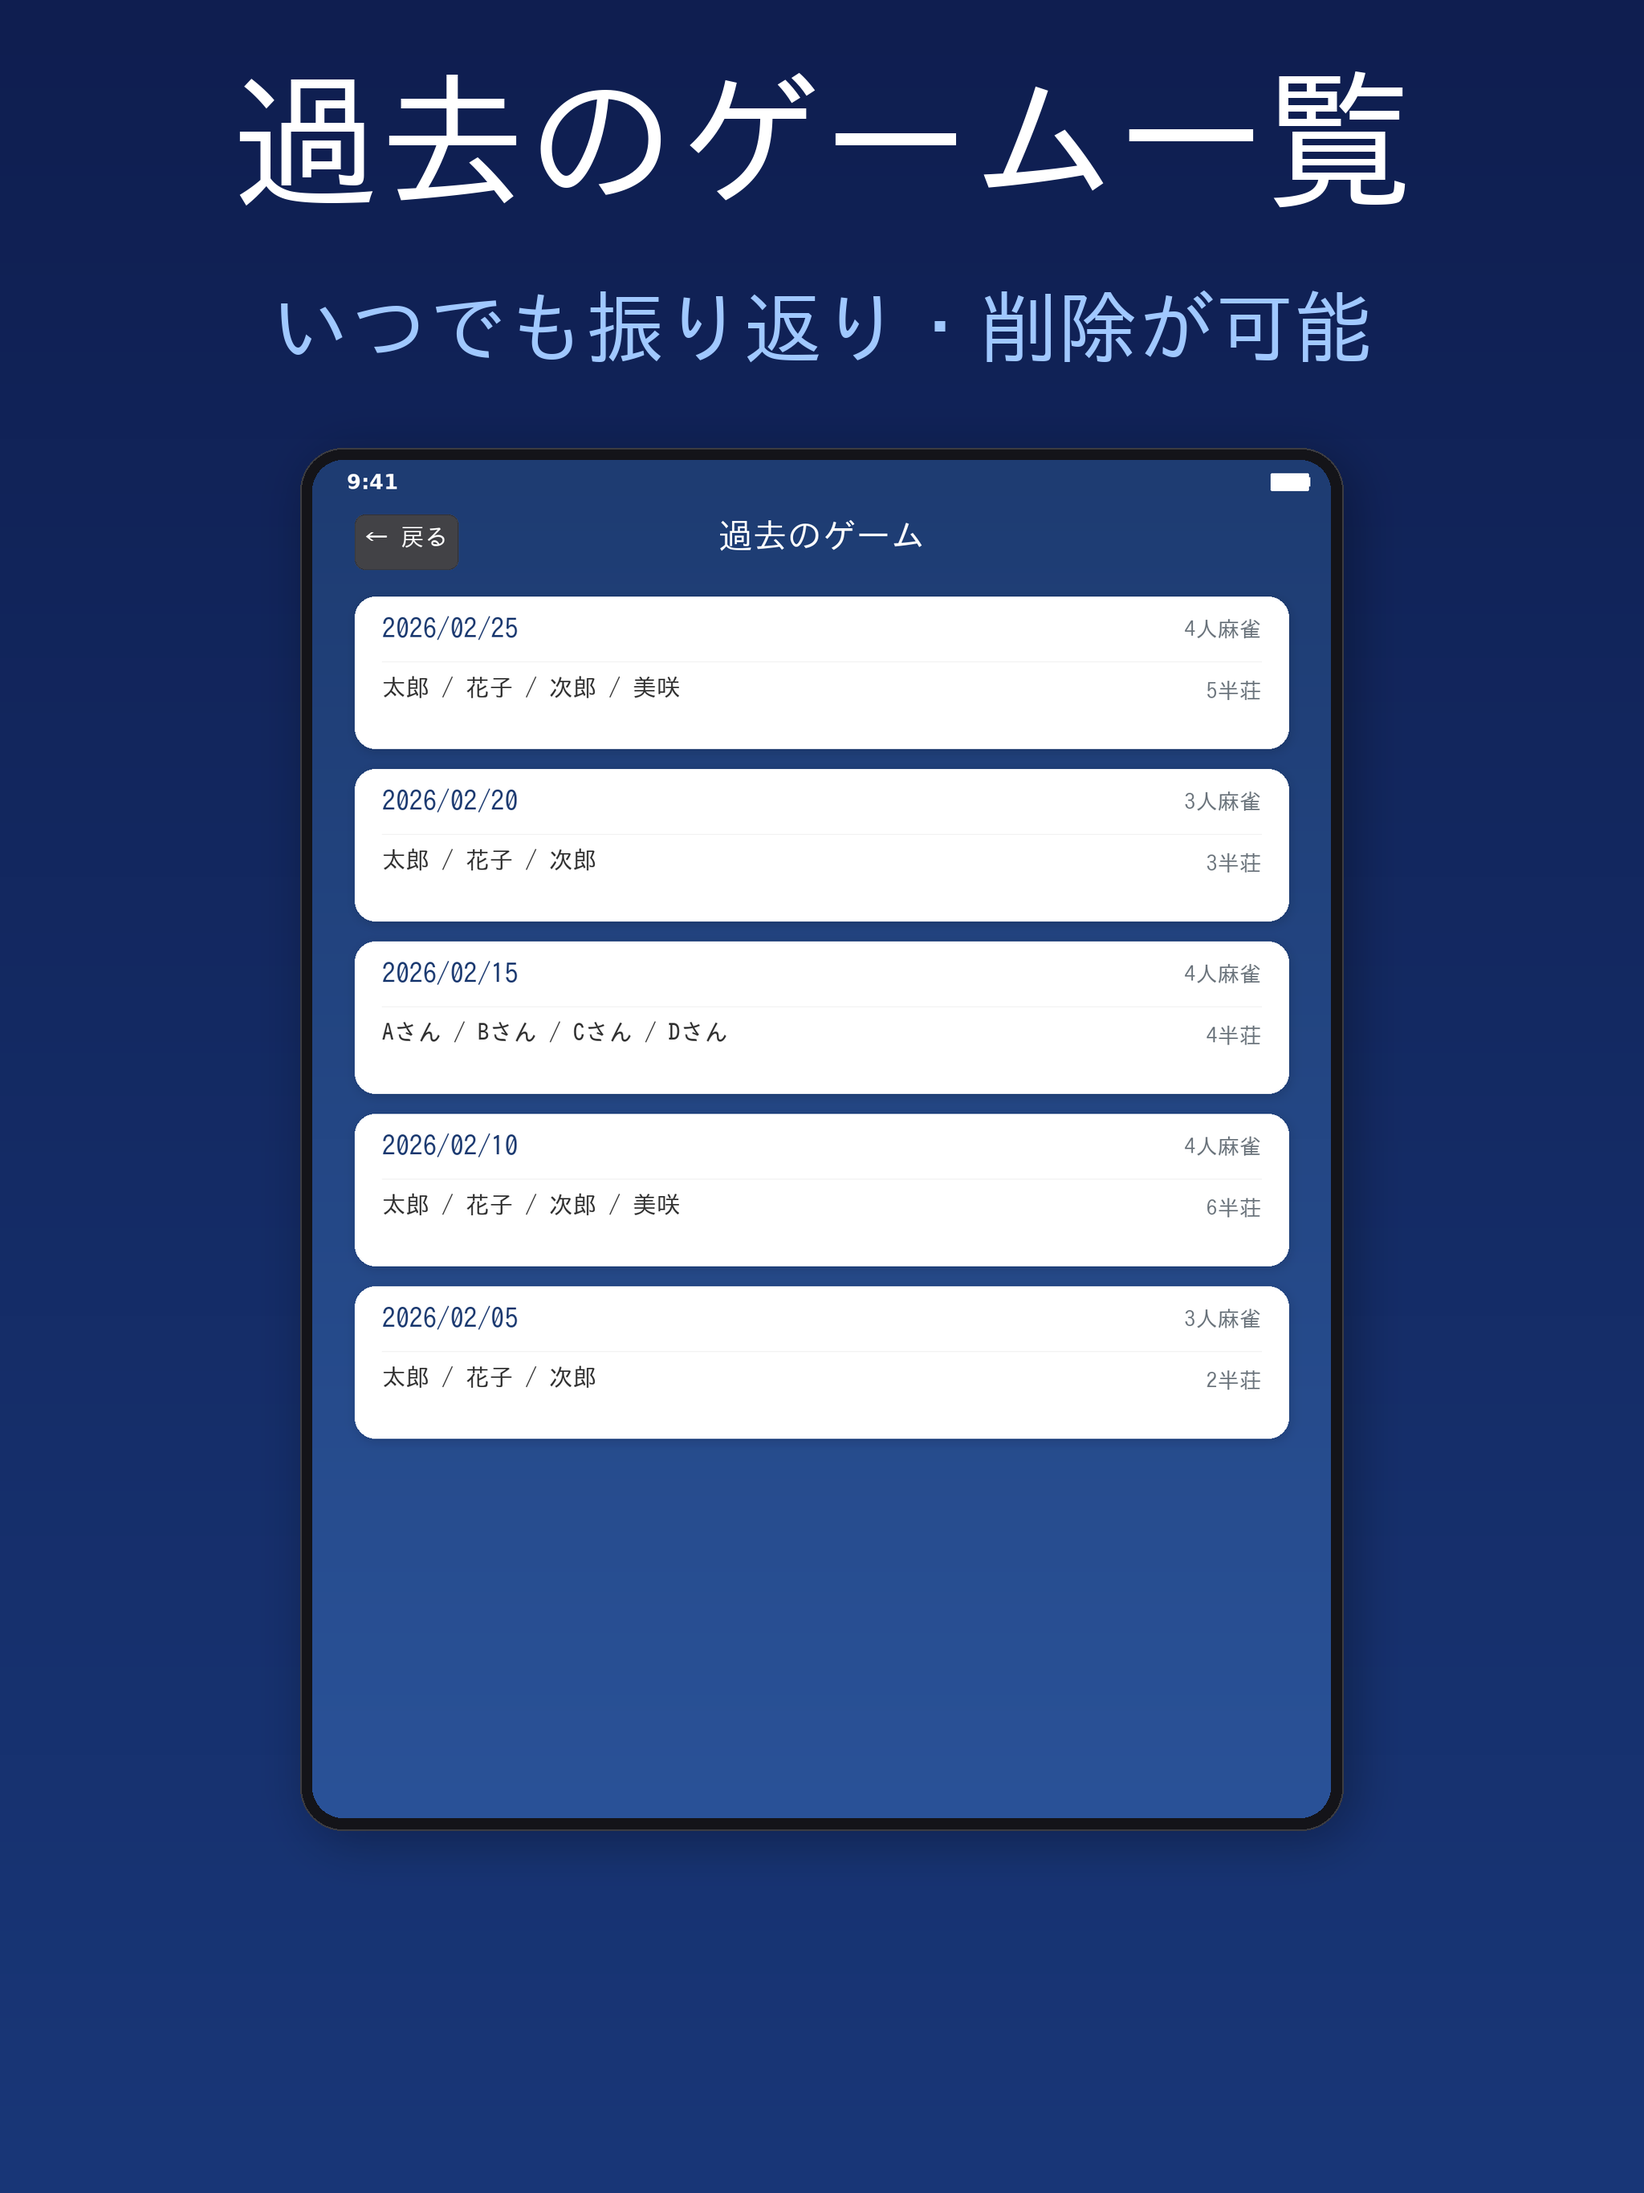
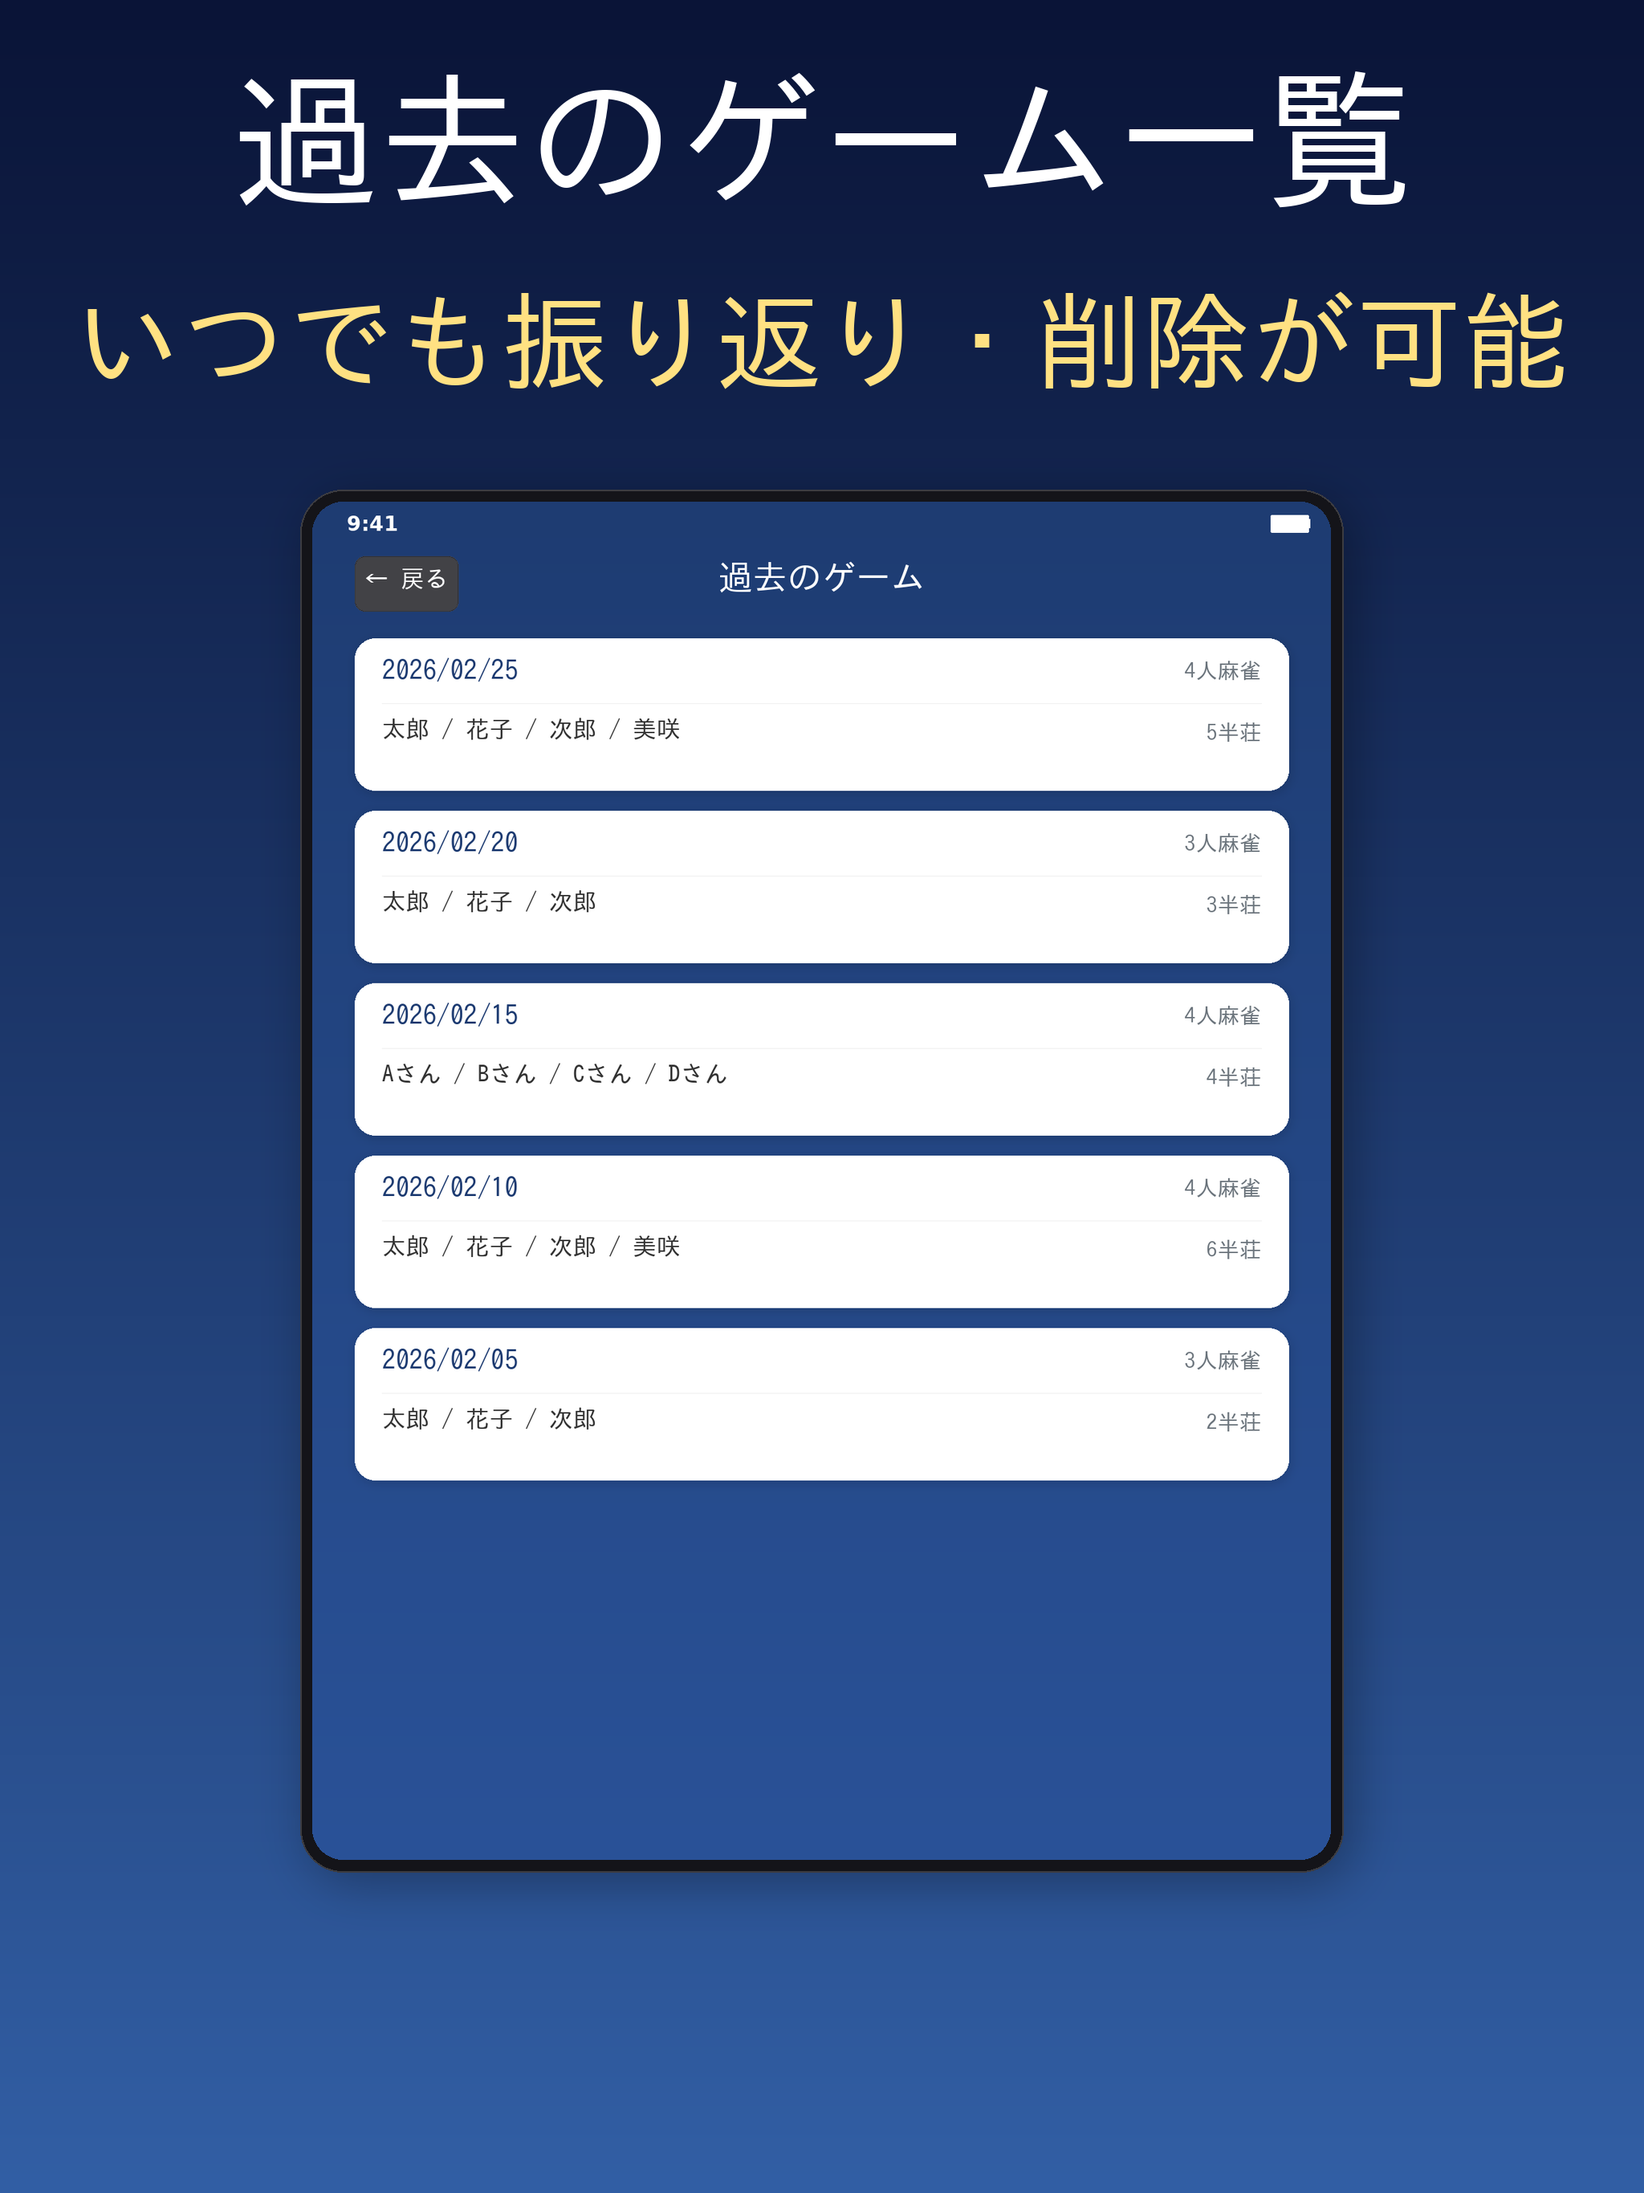
style: プロモ画像のサブタイトル拡大・背景グラデーション改善
- サブタイトルフォント 0.048→0.065 に拡大
- サブタイトル色を金色系 (255,225,130) に変更し視認性向上
- 背景グラデーションを (10,20,55)→(50,95,165) に変更、
  上部は暗く文字が映え、下部は明るくデバイスフレームが際立つ

https://claude.ai/code/session_01Q6nhLi3LEqTLgYHiVa6uSf

diff --git a/generate_assets.py b/generate_assets.py
@@ -458,7 +458,8 @@ def create_promo_frame(phone_img, title_text=None, subtitle_text=None, config=IP
     screen_w, screen_h = config.screen_w, config.screen_h
 
     img = Image.new('RGBA', (promo_w, promo_h), (0, 0, 0, 0))
-    draw_gradient_bg(img, (15, 30, 80), (25, 55, 120))
+    # Dark top for text contrast → lighter bottom so device frame stands out
+    draw_gradient_bg(img, (10, 20, 55), (50, 95, 165))
     draw = ImageDraw.Draw(img)
 
     top_y = int(promo_h * 0.03)
@@ -471,9 +472,9 @@ def create_promo_frame(phone_img, title_text=None, subtitle_text=None, config=IP
         top_y += int(title_font_size * 1.5)
 
     if subtitle_text:
-        sub_font_size = int(promo_w * 0.048)
+        sub_font_size = int(promo_w * 0.065)
         sf = font(sub_font_size, jp=True)
-        draw_centered_text(draw, subtitle_text, promo_w // 2, top_y, sf, (160, 200, 255))
+        draw_centered_text(draw, subtitle_text, promo_w // 2, top_y, sf, (255, 225, 130))
         top_y += int(sub_font_size * 1.5)
 
     # Device frame (smaller to give more space to text)
